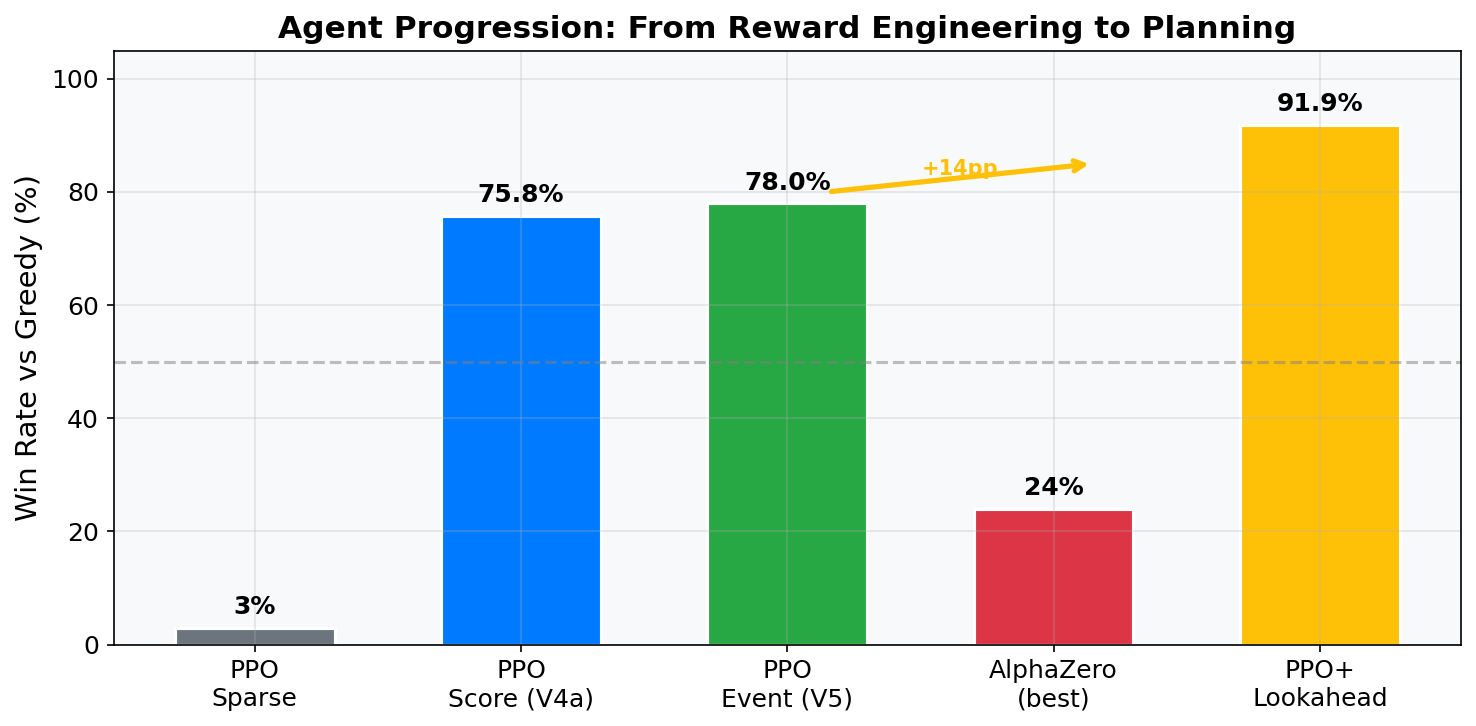
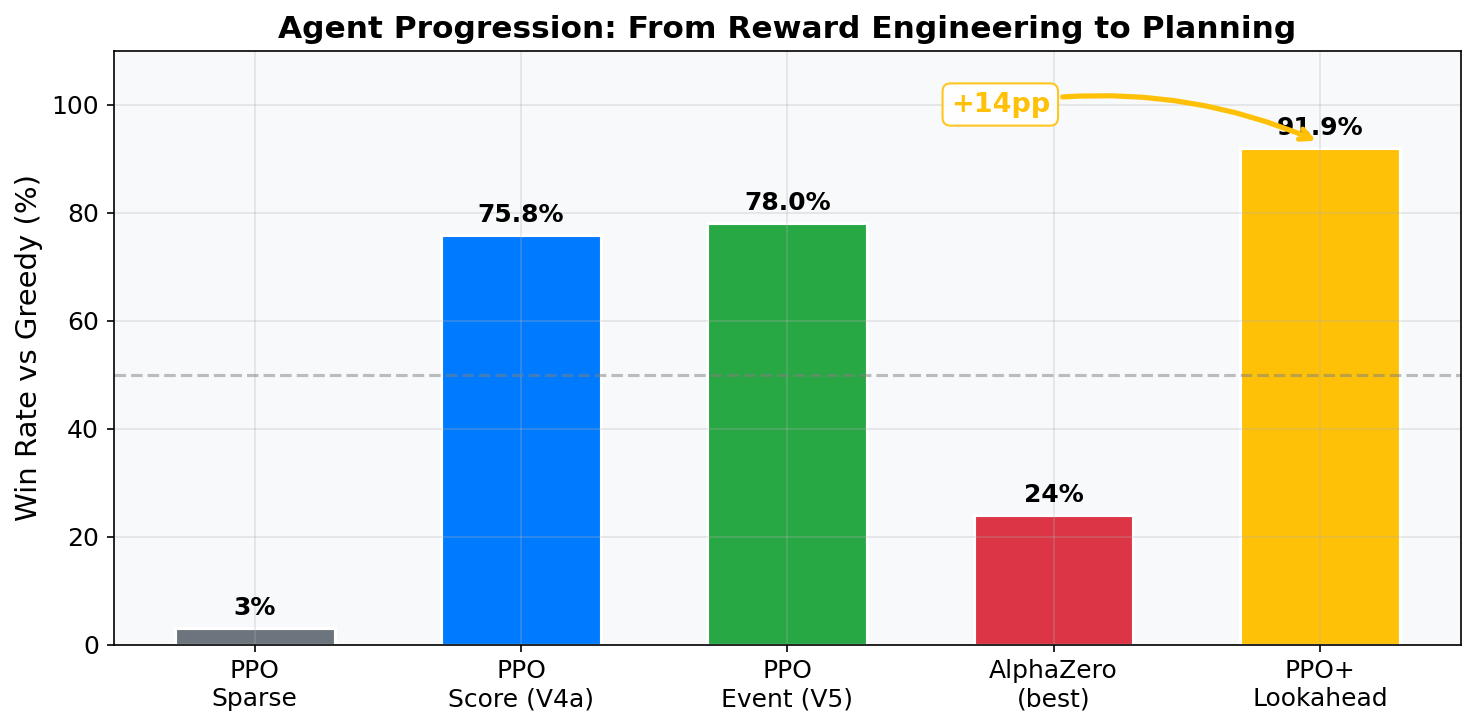
Fix figure layout: PPO progression +14pp label, AlphaZero table width

diff --git a/project/scripts/generate_figures.py b/project/scripts/generate_figures.py
@@ -47,10 +47,13 @@ for bar, val in zip(bars, win_rates):
     ax.text(bar.get_x() + bar.get_width()/2, bar.get_height() + 1.5, f'{val}%',
             ha='center', va='bottom', fontweight='bold', fontsize=12)
 
-# Add arrows showing progression
-ax.annotate('', xy=(3.15, 85), xytext=(2.15, 80),
-            arrowprops=dict(arrowstyle='->', color=COLORS['gold'], lw=2.5))
-ax.text(2.65, 83, '+14pp', fontsize=10, ha='center', color=COLORS['gold'], fontweight='bold')
+# Add curved arrow + label for +14pp
+ax.annotate('+14pp', xy=(4, 93), xytext=(2.8, 95),
+            fontsize=13, fontweight='bold', color=COLORS['gold'],
+            ha='center', va='center',
+            arrowprops=dict(arrowstyle='->', color=COLORS['gold'], lw=2.5,
+                            connectionstyle='arc3,rad=-0.15'),
+            bbox=dict(boxstyle='round,pad=0.3', facecolor='white', edgecolor=COLORS['gold'], alpha=0.9))
 
 plt.tight_layout()
 plt.savefig(f'{OUT}/01_ppo_progression.png', bbox_inches='tight')
@@ -60,21 +63,22 @@ print("1. PPO progression done")
 # ============================================================
 # 2. AlphaZero Failure Table (as figure)
 # ============================================================
-fig, ax = plt.subplots(figsize=(8, 3.5))
+fig, ax = plt.subplots(figsize=(12, 3.5))
 ax.axis('off')
 
 data = [
     ['AlphaZero V2 (Pure, 20 iter)', '25%', '0%', 'MCTS too shallow'],
-    ['AlphaZero V3 (Shaped, 30 iter)', '34%', '4%', 'Reward shaping not enough'],
+    ['AlphaZero V3 (Shaped, 30 iter)', '34%', '4%', 'Reward shaping insufficient'],
     ['AlphaZero V4 (Warm-start, 60 iter)', '6%', '2%', 'PPO distillation hurt'],
     ['AlphaZero V3-long (60 iter)', '10%', '0%', 'More training did not help'],
 ]
 cols = ['Variant', 'vs Random', 'vs Greedy', 'Diagnosis']
 
-table = ax.table(cellText=data, colLabels=cols, loc='center', cellLoc='center')
+table = ax.table(cellText=data, colLabels=cols, loc='center', cellLoc='center',
+                 colWidths=[0.32, 0.15, 0.15, 0.32])
 table.auto_set_font_size(False)
-table.set_fontsize(11)
-table.scale(1.2, 1.8)
+table.set_fontsize(12)
+table.scale(1.0, 2.0)
 
 # Header styling
 for j in range(len(cols)):
